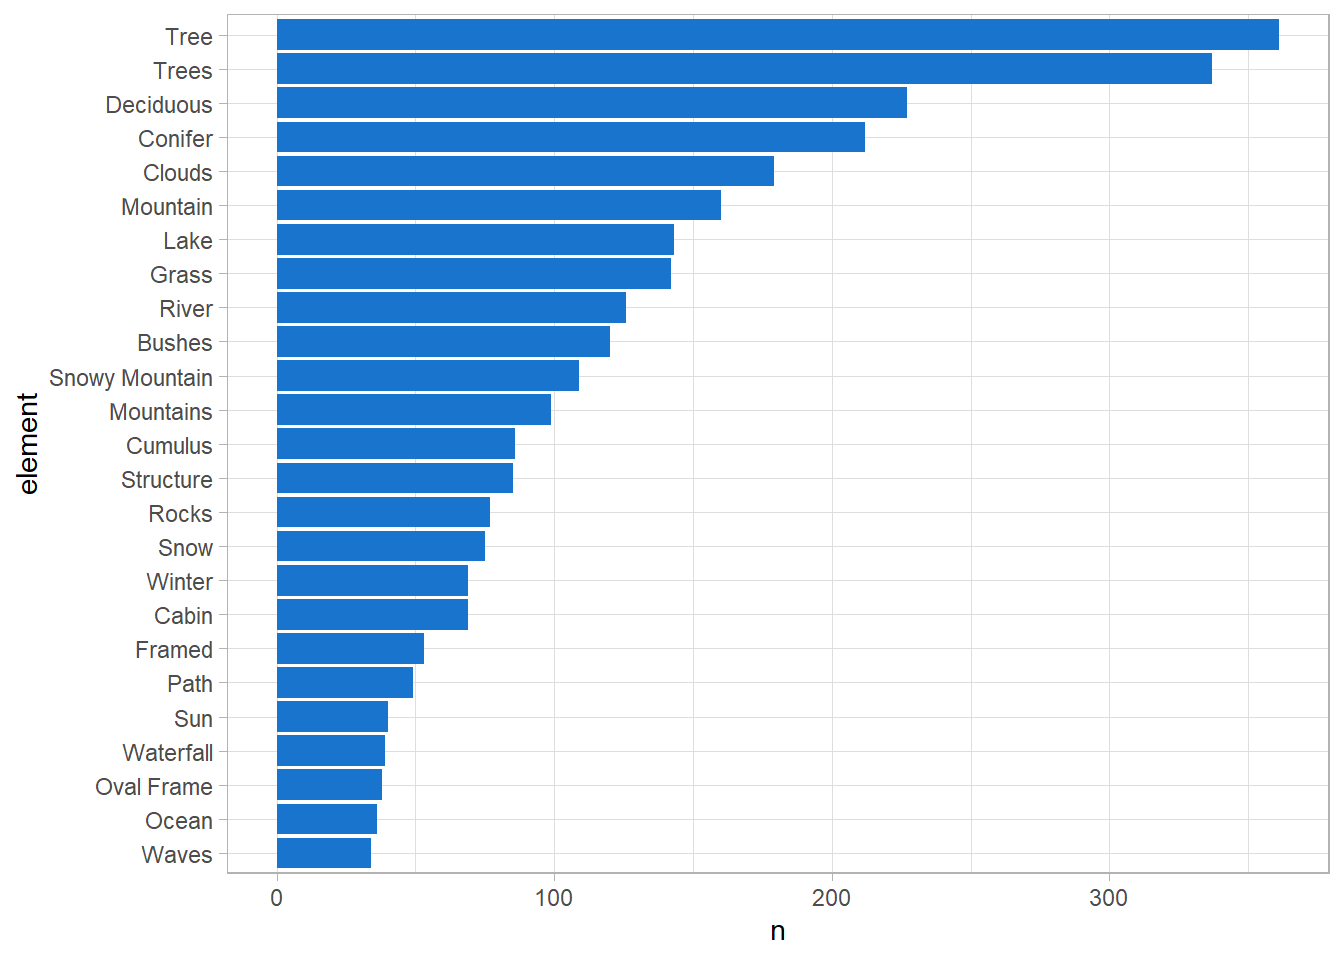
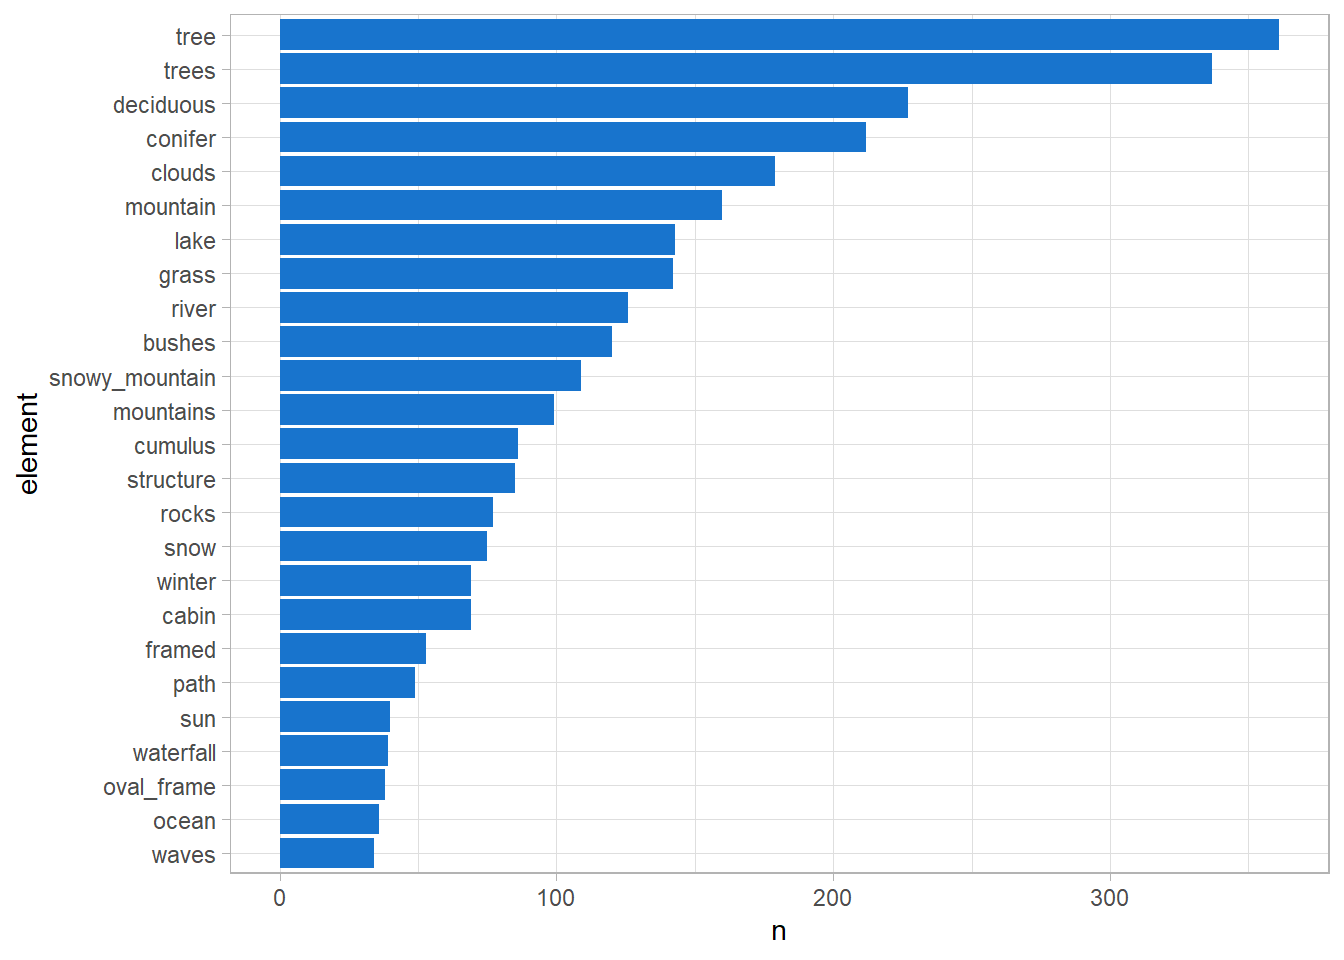
commit

diff --git a/docs/visualization.html b/docs/visualization.html
@@ -476,19 +476,17 @@ $(document).ready(function () {
 <span id="cb18-2"><a href="#cb18-2" aria-hidden="true" tabindex="-1"></a>  janitor<span class="sc">::</span><span class="fu">clean_names</span>() <span class="sc">%&gt;%</span></span>
 <span id="cb18-3"><a href="#cb18-3" aria-hidden="true" tabindex="-1"></a>  <span class="fu">gather</span>(element, present, <span class="sc">-</span>episode, <span class="sc">-</span>title) <span class="sc">%&gt;%</span></span>
 <span id="cb18-4"><a href="#cb18-4" aria-hidden="true" tabindex="-1"></a>  <span class="fu">filter</span>(present <span class="sc">==</span> <span class="dv">1</span>) <span class="sc">%&gt;%</span></span>
-<span id="cb18-5"><a href="#cb18-5" aria-hidden="true" tabindex="-1"></a>  <span class="fu">mutate</span>(<span class="at">title =</span> <span class="fu">str_to_title</span>(<span class="fu">str_remove_all</span>(title, <span class="st">&#39;&quot;&#39;</span>)),</span>
-<span id="cb18-6"><a href="#cb18-6" aria-hidden="true" tabindex="-1"></a>         <span class="at">element =</span> <span class="fu">str_to_title</span>(<span class="fu">str_replace</span>(element, <span class="st">&quot;_&quot;</span>, <span class="st">&quot; &quot;</span>))) <span class="sc">%&gt;%</span></span>
-<span id="cb18-7"><a href="#cb18-7" aria-hidden="true" tabindex="-1"></a>  <span class="fu">select</span>(<span class="sc">-</span>present) <span class="sc">%&gt;%</span></span>
-<span id="cb18-8"><a href="#cb18-8" aria-hidden="true" tabindex="-1"></a>  <span class="fu">extract</span>(episode, <span class="fu">c</span>(<span class="st">&quot;season&quot;</span>, <span class="st">&quot;episode_number&quot;</span>), <span class="st">&quot;S(.*)E(.*)&quot;</span>, <span class="at">convert =</span> <span class="cn">TRUE</span>, <span class="at">remove =</span> <span class="cn">FALSE</span>) <span class="sc">%&gt;%</span></span>
-<span id="cb18-9"><a href="#cb18-9" aria-hidden="true" tabindex="-1"></a>  <span class="fu">arrange</span>(season, episode_number)</span></code></pre></div>
+<span id="cb18-5"><a href="#cb18-5" aria-hidden="true" tabindex="-1"></a>  <span class="fu">select</span>(<span class="sc">-</span>present) <span class="sc">%&gt;%</span></span>
+<span id="cb18-6"><a href="#cb18-6" aria-hidden="true" tabindex="-1"></a>  <span class="fu">extract</span>(episode, <span class="fu">c</span>(<span class="st">&quot;season&quot;</span>, <span class="st">&quot;episode_number&quot;</span>), <span class="st">&quot;S(.*)E(.*)&quot;</span>, <span class="at">convert =</span> <span class="cn">TRUE</span>, <span class="at">remove =</span> <span class="cn">FALSE</span>) <span class="sc">%&gt;%</span></span>
+<span id="cb18-7"><a href="#cb18-7" aria-hidden="true" tabindex="-1"></a>  <span class="fu">arrange</span>(season, episode_number)</span></code></pre></div>
 <div class="sourceCode" id="cb19"><pre class="sourceCode r"><code class="sourceCode r"><span id="cb19-1"><a href="#cb19-1" aria-hidden="true" tabindex="-1"></a><span class="fu">glimpse</span>(bob_ross_gathered)</span></code></pre></div>
 <pre><code>## Rows: 3,221
 ## Columns: 5
 ## $ episode        &lt;chr&gt; &quot;S01E01&quot;, &quot;S01E01&quot;, &quot;S01E01&quot;, &quot;S01E01&quot;, &quot;S01E01&quot;, &quot;S01E~
 ## $ season         &lt;int&gt; 1, 1, 1, 1, 1, 1, 1, 1, 1, 1, 1, 1, 1, 1, 1, 1, 1, 1, 1~
 ## $ episode_number &lt;int&gt; 1, 1, 1, 1, 1, 1, 2, 2, 2, 2, 2, 2, 2, 2, 2, 3, 3, 3, 3~
-## $ title          &lt;chr&gt; &quot;A Walk In The Woods&quot;, &quot;A Walk In The Woods&quot;, &quot;A Walk I~
-## $ element        &lt;chr&gt; &quot;Bushes&quot;, &quot;Deciduous&quot;, &quot;Grass&quot;, &quot;River&quot;, &quot;Tree&quot;, &quot;Trees~</code></pre>
+## $ title          &lt;chr&gt; &quot;\&quot;A WALK IN THE WOODS\&quot;&quot;, &quot;\&quot;A WALK IN THE WOODS\&quot;&quot;, &quot;~
+## $ element        &lt;chr&gt; &quot;bushes&quot;, &quot;deciduous&quot;, &quot;grass&quot;, &quot;river&quot;, &quot;tree&quot;, &quot;trees~</code></pre>
 <div class="sourceCode" id="cb21"><pre class="sourceCode r"><code class="sourceCode r"><span id="cb21-1"><a href="#cb21-1" aria-hidden="true" tabindex="-1"></a>bob_ross_gathered <span class="sc">%&gt;%</span></span>
 <span id="cb21-2"><a href="#cb21-2" aria-hidden="true" tabindex="-1"></a>  <span class="fu">count</span>(element, <span class="at">sort =</span> <span class="cn">TRUE</span>) <span class="sc">%&gt;%</span></span>
 <span id="cb21-3"><a href="#cb21-3" aria-hidden="true" tabindex="-1"></a>  <span class="fu">head</span>(<span class="dv">25</span>) <span class="sc">%&gt;%</span></span>
@@ -501,18 +499,18 @@ $(document).ready(function () {
 <span id="cb22-2"><a href="#cb22-2" aria-hidden="true" tabindex="-1"></a>  <span class="fu">add_count</span>(title) <span class="sc">%&gt;%</span></span>
 <span id="cb22-3"><a href="#cb22-3" aria-hidden="true" tabindex="-1"></a>  <span class="fu">arrange</span>(<span class="fu">desc</span>(n))</span></code></pre></div>
 <pre><code>## # A tibble: 3,221 x 6
-##    episode season episode_number title          element          n
-##    &lt;chr&gt;    &lt;int&gt;          &lt;int&gt; &lt;chr&gt;          &lt;chr&gt;        &lt;int&gt;
-##  1 S08E02       8              2 Lakeside Cabin Bushes          22
-##  2 S08E02       8              2 Lakeside Cabin Cabin           22
-##  3 S08E02       8              2 Lakeside Cabin Circle Frame    22
-##  4 S08E02       8              2 Lakeside Cabin Clouds          22
-##  5 S08E02       8              2 Lakeside Cabin Deciduous       22
-##  6 S08E02       8              2 Lakeside Cabin Framed          22
-##  7 S08E02       8              2 Lakeside Cabin Grass           22
-##  8 S08E02       8              2 Lakeside Cabin Lake            22
-##  9 S08E02       8              2 Lakeside Cabin Structure       22
-## 10 S08E02       8              2 Lakeside Cabin Tree            22
+##    episode season episode_number title                element          n
+##    &lt;chr&gt;    &lt;int&gt;          &lt;int&gt; &lt;chr&gt;                &lt;chr&gt;        &lt;int&gt;
+##  1 S08E02       8              2 &quot;\&quot;LAKESIDE CABIN\&quot;&quot; bushes          22
+##  2 S08E02       8              2 &quot;\&quot;LAKESIDE CABIN\&quot;&quot; cabin           22
+##  3 S08E02       8              2 &quot;\&quot;LAKESIDE CABIN\&quot;&quot; circle_frame    22
+##  4 S08E02       8              2 &quot;\&quot;LAKESIDE CABIN\&quot;&quot; clouds          22
+##  5 S08E02       8              2 &quot;\&quot;LAKESIDE CABIN\&quot;&quot; deciduous       22
+##  6 S08E02       8              2 &quot;\&quot;LAKESIDE CABIN\&quot;&quot; framed          22
+##  7 S08E02       8              2 &quot;\&quot;LAKESIDE CABIN\&quot;&quot; grass           22
+##  8 S08E02       8              2 &quot;\&quot;LAKESIDE CABIN\&quot;&quot; lake            22
+##  9 S08E02       8              2 &quot;\&quot;LAKESIDE CABIN\&quot;&quot; structure       22
+## 10 S08E02       8              2 &quot;\&quot;LAKESIDE CABIN\&quot;&quot; tree            22
 ## # ... with 3,211 more rows</code></pre>
 <div class="sourceCode" id="cb24"><pre class="sourceCode r"><code class="sourceCode r"><span id="cb24-1"><a href="#cb24-1" aria-hidden="true" tabindex="-1"></a>by_season_element <span class="ot">&lt;-</span> bob_ross_gathered <span class="sc">%&gt;%</span></span>
 <span id="cb24-2"><a href="#cb24-2" aria-hidden="true" tabindex="-1"></a>  <span class="fu">filter</span>(<span class="sc">!</span>element <span class="sc">%in%</span> <span class="fu">c</span>(<span class="st">&quot;Tree&quot;</span>, <span class="st">&quot;Trees&quot;</span>)) <span class="sc">%&gt;%</span></span>
